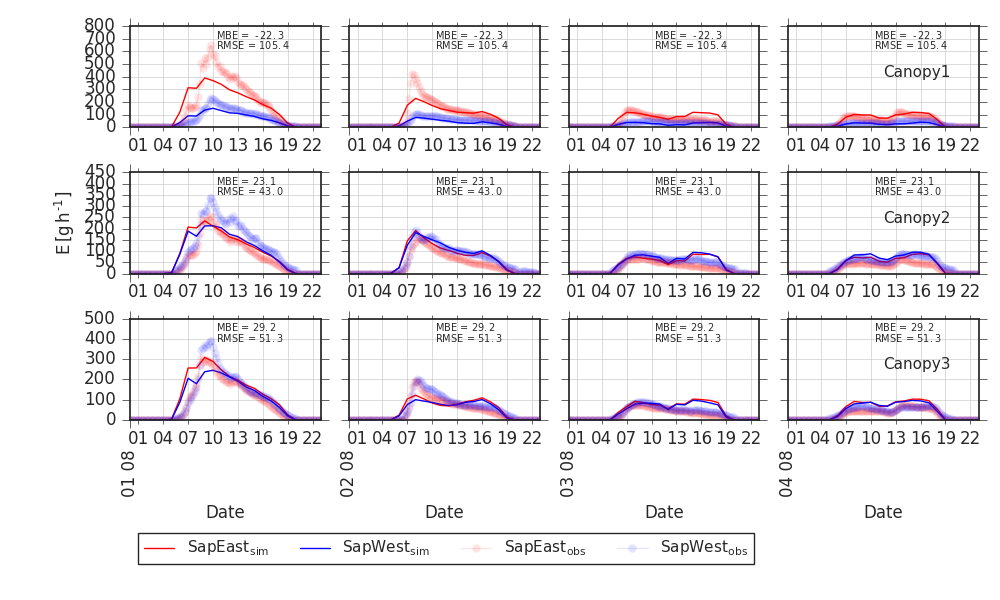
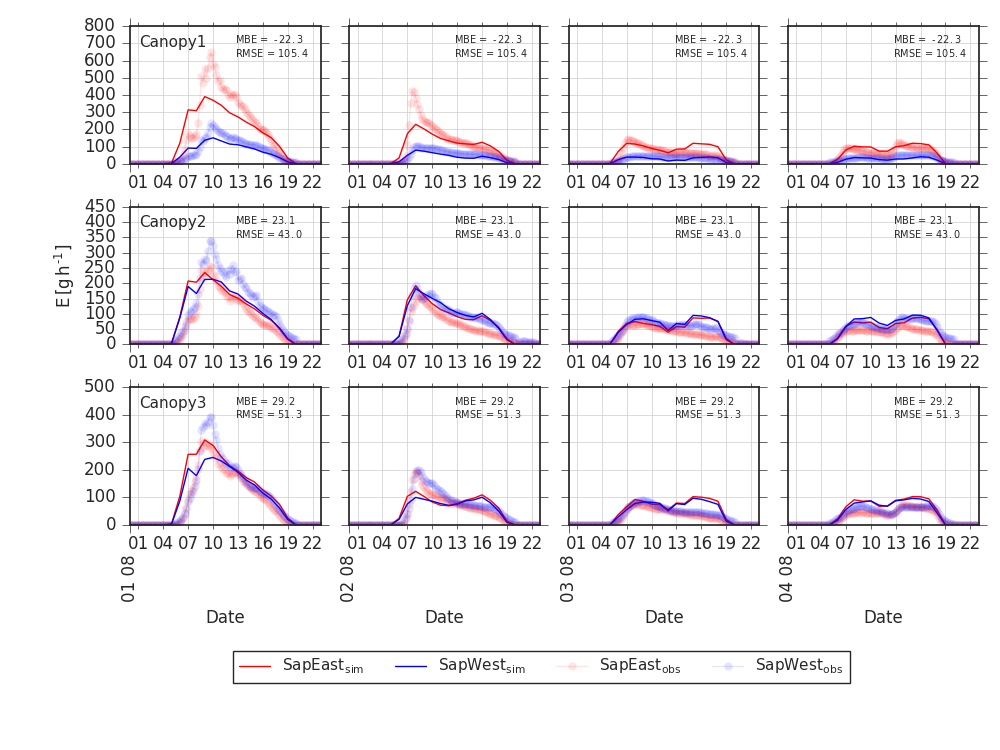
layout fig 14

Changed region(s): [[0.031, 0.03, 0.992, 0.96], [0.868, 0.6, 0.961, 0.63]]

diff --git a/example/figs/paper_figs.py b/example/figs/paper_figs.py
@@ -460,7 +460,7 @@ def plot_figure_14():
     """Generates figure 14 of the paper. This figure compares, simulated to observed plant transpiration rates.
     """
 
-    fig, axs = pyplot.subplots(nrows=3, ncols=4, sharex='col', sharey='row', figsize=(10, 6))
+    fig, axs = pyplot.subplots(nrows=3, ncols=4, sharex='col', sharey='row', figsize=(10, 7.5))
 
     for i_treat, training in enumerate(('gdc_can1_grapevine', 'gdc_can2_grapevine', 'gdc_can3_grapevine')):
 
@@ -523,10 +523,10 @@ def plot_figure_14():
             bias = (y_t - x_t).mean()
             rmse = np.sqrt(((x_t - y_t) ** 2).mean())
 
-            ax.text(0.45, 0.875,
+            ax.text(0.55, 0.875,
                     '$\mathregular{MBE\/=\/%.1f}$' % bias,
                     transform=ax.transAxes, fontdict={'size': 7})
-            ax.text(0.45, 0.775,
+            ax.text(0.55, 0.775,
                     '$\mathregular{RMSE\/=\/%.1f}$' % rmse,
                     transform=ax.transAxes, fontdict={'size': 7})
 
@@ -544,8 +544,8 @@ def plot_figure_14():
     axs[2, 0].set_ylim(0, 500)
 
     for can in range(3):
-        axs[can, 3].text(0.5, 0.5, 'Canopy%s' % str(can + 1),
-                         transform=axs[can, 3].transAxes, fontdict={'size': 11})
+        axs[can, 0].text(0.05, 0.85, 'Canopy%s' % str(can + 1),
+                         transform=axs[can, 0].transAxes, fontdict={'size': 11})
 
     for ax in axs[2, :]:
         ax.set_xlabel('Date')
@@ -564,7 +564,7 @@ def plot_figure_14():
 
     axs[2, 0].legend(h1, ('$\mathregular{SapEast_{sim}}$', '$\mathregular{SapWest_{sim}}$',
                           '$\mathregular{SapEast_{obs}}$', '$\mathregular{SapWest_{obs}}$'),
-                     frameon=True, bbox_to_anchor=(0.5, -1.65, 2, .102),
+                     frameon=True, bbox_to_anchor=(0.5, -1.2, 2, .102),
                      loc=3, ncol=8, prop={'size': 11})
 
     fig.savefig('fig_14.png')
@@ -741,12 +741,12 @@ if __name__ == '__main__':
 
     example_pth = Path(__file__).parents[2] / 'example'
 
-    plot_figure_9()
-    plot_figure_10()
-    plot_figure_11()
-    plot_figure_12()
-    plot_figure_13()
+    # plot_figure_9()
+    # plot_figure_10()
+    # plot_figure_11()
+    # plot_figure_12()
+    # plot_figure_13()
     plot_figure_14()
-    plot_figure_15()
-    write_table_1()
+    # plot_figure_15()
+    # write_table_1()
 
